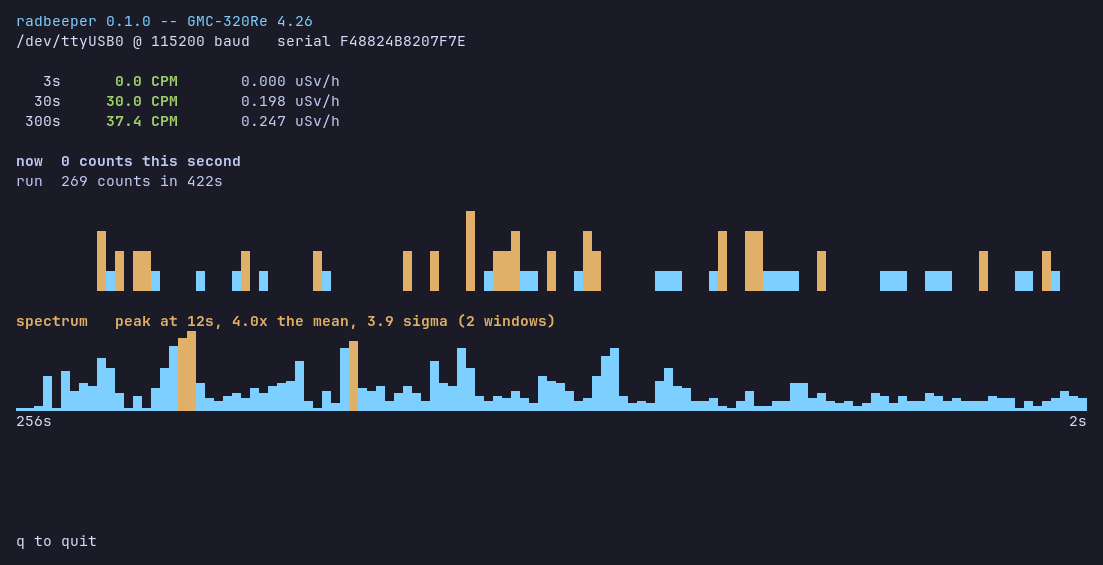
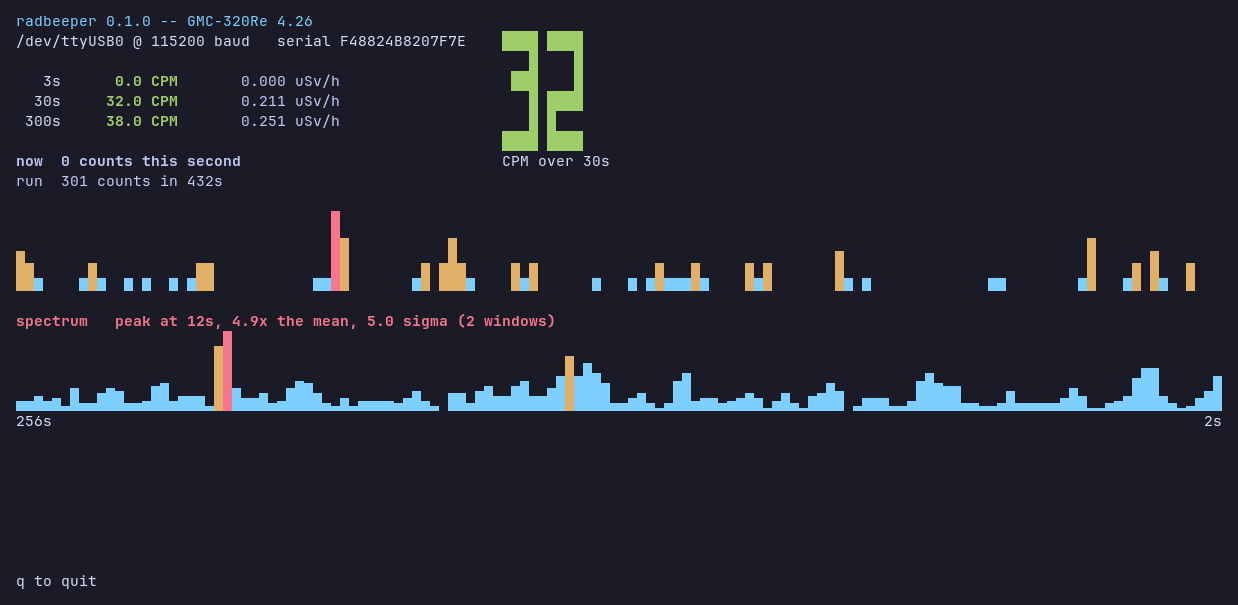
A peak has to beat what luck gives the tallest of 127 bins, not one
The monitor called a 4.9x bin "5.0 sigma" after two windows, on a counter
watching ordinary background. Sigma is right for ONE bin, but the eye picks
the tallest of a hundred and twenty-seven, and the largest of many draws is
far bigger than any single draw: averaged N times the biggest white bin
lands near 1 + ln(B)/N, which at two windows is nearly 4x. So that reading
was very close to what a perfectly healthy counter produces every time
somebody looks at it.

That is the same mistake as drawing a three-second average as though it
were settled, one panel up -- and this program exists to not make it.

The verdict now compares the loudest bin against the chance maximum for the
number of bins and windows in hand, prints what chance would have given
beside what was seen, and colours the spectrum on the same basis. Over 25
seeds of pure Poisson background at two windows, the naive threshold fires
on nine and the honest one on none.

134 tests, up from 130.

Claude-Session: https://claude.ai/code/session_01A8amrgyjNkDhTEn6Dkum4c

diff --git a/tests/test_radbeeper.py b/tests/test_radbeeper.py
@@ -1208,3 +1208,67 @@ class TestBigNumber(unittest.TestCase):
 
     def test_unknown_characters_are_skipped_not_crashed_on(self):
         self.assertEqual(radbeeper.big_number("9x9"), radbeeper.big_number("99"))
+
+
+class TestFalseAlarms(unittest.TestCase):
+    """The tallest of many bins is much taller than any one bin.
+
+    Sigma is computed from a single bin, but the eye picks the largest of a
+    hundred and twenty-seven of them. Reporting the first as a detection is
+    the same mistake as drawing a three-second average as though it were
+    settled.
+    """
+
+    def poisson(self, rng, rate):
+        n, p, limit = 0, 1.0, pow(2.718281828459045, -rate)
+        while True:
+            p *= rng.random()
+            if p <= limit:
+                return n
+            n += 1
+
+    def test_a_quiet_counter_does_not_cry_wolf_early(self):
+        # Two windows of pure background, over and over. The single-bin sigma
+        # sails past 3 almost every time; the chance-adjusted threshold does
+        # not, which is the whole point.
+        loud, flagged = 0, 0
+        for seed in range(25):
+            rng = random.Random(seed)
+            spec = radbeeper.Spectrum(window=128)
+            while spec.runs < 2:
+                spec.add(self.poisson(rng, 0.5))
+            top, _where = spec.loudest()
+            if spec.sigma(top) >= 3.0:
+                loud += 1
+            if top >= spec.chance_max() * 1.25:
+                flagged += 1
+        # Measured over these 25 seeds: the naive test fires on 9 of them,
+        # the chance-adjusted one on almost none.
+        self.assertGreaterEqual(loud, 6)      # a false alarm every few looks
+        self.assertLessEqual(flagged, 3)      # and hardly ever, honestly
+        self.assertLess(flagged, loud)
+
+    def test_the_bar_falls_as_the_averages_pile_up(self):
+        spec = radbeeper.Spectrum(window=128)
+        spec.runs = 2
+        early = spec.chance_max()
+        spec.runs = 40
+        late = spec.chance_max()
+        self.assertGreater(early, 3.0)    # 4x is ordinary luck at two windows
+        self.assertLess(late, 1.3)        # and extraordinary at forty
+        self.assertLess(late, early)
+
+    def test_a_real_line_still_gets_through(self):
+        rng = random.Random(3)
+        spec = radbeeper.Spectrum(window=128)
+        i = 0
+        while spec.runs < 8:
+            n = self.poisson(rng, 0.5) + (6 if i % 8 == 0 else 0)
+            spec.add(n)
+            i += 1
+        top, _where = spec.loudest()
+        self.assertGreater(top, spec.chance_max() * 1.25)
+
+    def test_nothing_is_claimed_before_a_window_closes(self):
+        spec = radbeeper.Spectrum(window=64)
+        self.assertEqual(spec.chance_max(), float("inf"))

diff --git a/README.md b/README.md
@@ -119,6 +119,20 @@ spectrum   flat -- arrivals look random, as decay should (28 windows)
 spectrum   peak at 8s, 9.4x the mean, 7.2 sigma (28 windows)
 ```
 
+**Sigma alone is not a reason to believe anything**, and this is the trap the
+panel is most likely to fall into. Sigma is computed for one bin, but the eye
+picks the *tallest of 127*, and the largest of many draws is far bigger than any
+single draw. Averaged *N* times, the largest white bin lands near 1 + ln(B)/*N* —
+which at two windows is nearly 4×. So a bin at 4.9×, reading as a confident five
+sigma, is very close to what a perfectly healthy counter produces every time you
+look. At twenty-eight windows the same arithmetic gives 1.2×, and 4.9× is then
+overwhelming. The headline compares against *that*, and says what chance would
+have given:
+
+```
+spectrum   peak at 8s, 9.4x the mean (chance gives 1.2x), 7.2 sigma
+```
+
 Windows are **half-overlapped** (Welch rather than Bartlett), which gets two
 averages out of each window's worth of data instead of one — the noise settles
 about 1.4× faster for the same waiting. The segments share half their samples,
